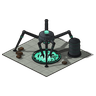
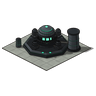
Fusion Core: its own art, and the Fusion Reactor lights it up
The Core wore the Assimilator's art as a placeholder. render_xeno_base.py now
builds it: a shut ribbed lid on a caged plasma well, four short coil pylons,
and an east roof tower. The Fusion Reactor level (fusioncore-reactor, picked
by LEVEL_SHEETS) opens the lid on a caged star in a lit torus, with tall
glowing coil spires and more seams, vents and capacitors. The roof Ion
Turret's seat moves to the tower roof, which stands as tall on both sheets.

Changed region(s): [[0.0, 0.1875, 1.0, 0.8125]]

diff --git a/gridlock/packages/client/src/render/sprites.ts b/gridlock/packages/client/src/render/sprites.ts
@@ -48,6 +48,7 @@ import researchUrl from "../assets/buildings/research.png";
 import cyborgCentralUrl from "../assets/buildings/cyborgcentral.png";
 import hiveCoreUrl from "../assets/buildings/hivecore.png";
 import fusionNodeUrl from "../assets/buildings/fusionnode.png";
+import fusionCoreUrl from "../assets/buildings/fusioncore.png";
 import forgeUrl from "../assets/buildings/forge.png";
 import nexusUrl from "../assets/buildings/nexus.png";
 import conversionUrl from "../assets/buildings/conversion.png";
@@ -1765,10 +1766,11 @@ bindMothershipSheets({ hull: MOTHERSHIP_SPRITE.image });
 /**
  * Where a researched Flak Maw (sim/roof-flak.ts) sits on its structure: its pivot in the building
  * sheet's pixels, and the mount cell's width as a share of the pad's (ROOF_FLAK_SHEET).
- * The Fusion Core still wears the Assimilator's art: the maw rides on the silo's cap.
+ * The Fusion Core's turret sits on the flat roof of its east tower (the "roof" spot in fusioncore.json). The
+ * tower stands as tall on the Fusion Reactor's sheet, so the seat holds against the pad on both.
  */
 export const ROOF_FLAK_SEAT: Partial<Record<EntityType, { x: number; y: number; cellPerPad: number }>> = {
-  fusioncore: { x: 323.6, y: 95, cellPerPad: 0.95 },
+  fusioncore: { x: 320, y: 34, cellPerPad: 0.95 },
 };
 /** The Flak Maw on its 16 bearings (tools/sprites/render_flak_maw.py), on the Hive Ark's camera and cell. */
 export const ROOF_FLAK_SHEET: TurretSpriteDef = { image: new Image(), dirs: TANK_FACE_DIRS, frames: 1, frameSize: MOTHERSHIP_MODEL.cell };
@@ -2312,8 +2314,8 @@ const BUILDING_SPRITES: Partial<Record<EntityType, BuildingSpriteDef>> = {
   forge: building(forgeUrl, 384, 204, 232.2, 188, 22.2),
   // Neural core in a rib cage under a sensor crown: Xenite tech and radar, t(2).
   nexus: building(nexusUrl, 384, 210, 322.9, 210, 19.9),
-  // Fusion reactor on a caged plasma well: the Xenite power core, t(3). PLACEHOLDER: the Assimilator's art until its own sheet is rendered.
-  fusioncore: building(assimilatorUrl, 384, 204, 256.2, 204, 54.2),
+  // A shut reactor lid on a caged plasma well, coil pylons, a roof tower: the Xenite power core, t(3). Lit by the Fusion Reactor (LEVEL_SHEETS).
+  fusioncore: building(fusionCoreUrl, 384, 204, 204, 204, 4),
   // Chitin dome, a ring of conversion pods, synapse spire: the Xenite barracks, t(2) like the Barracks.
   conversion: building(conversionUrl, 384, 210, 299.2, 216, 8.2),
   // Ops hut, lattice mast, dish. Metrics from tools/sprites/render_radar.py (radar.json); the stack hangs over the dish.
@@ -2371,7 +2373,7 @@ for (const type of FORT_TYPES) {
  * Structures that look different once researched (sim/research.ts): each level past the base is its
  * own sheet, <type>-<name>.png with its pad metrics in <type>-<name>.json (tools/sprites/render_xeno_base.py).
  */
-export const LEVEL_SHEETS: Partial<Record<EntityType, readonly string[]>> = { fusionnode: ["advanced", "ultra"] };
+export const LEVEL_SHEETS: Partial<Record<EntityType, readonly string[]>> = { fusionnode: ["advanced", "ultra"], fusioncore: ["reactor"] };
 const LEVEL_SPRITES: Partial<Record<EntityType, BuildingSpriteDef[]>> = {};
 for (const [type, names] of Object.entries(LEVEL_SHEETS) as [EntityType, readonly string[]][]) {
   const defs: BuildingSpriteDef[] = [];

diff --git a/tools/sprites/render_xeno_base.py b/tools/sprites/render_xeno_base.py
@@ -39,6 +39,14 @@ pad, like core.png, smelter.png, and dynamo.png.
   fusionnode-advanced / fusionnode-ultra: the Fusion Node after Advanced and Ultra Fusion research
   (sim/research.ts). Same plinth and pad; taller, denser coils, a bigger core in gyro hoops, more
   capacitors and vents, and for Ultra a crown of four spires under a glowing ring.
+
+  fusioncore   t(3) x t(3)  the Xenite power core: a shut, ribbed reactor lid on a
+                            caged plasma well, four short coil pylons, a roof
+                            tower on the east corner (the roof Ion Turret's seat)
+  fusioncore-reactor: after Fusion Reactor research. Same plinth, pad and tower; the lid opens on
+  a caged star in a lit torus fed by a plasma stream, the pylons grow into glowing coil spires.
+
+  python tools/sprites/render_xeno_base.py --out ... --only fusioncore fusioncore-reactor
 """
 
 from __future__ import annotations
@@ -678,6 +686,154 @@ def assimilator_spots() -> dict:
         "silo": [(78.0 + 8.6 * math.cos(0.8), 18.0 + 8.6 * math.sin(0.8), z) for z in (11.3, 19.3, 27.3)],
         "smoke": (px, py, 4.0),
         "stack": (bx, by, AS_BODY_Z[1] + 9.0),
+    }
+
+
+# ---------------------------------------------------------------- Fusion Core, t(3) x t(3)
+
+FC = 96.0
+FC_C = (44.0, 44.0)
+# The tower on the east corner: its flat roof seats the roof Ion Turret (sim/roof-flak.ts), at the
+# same height on every level so the turret never moves when the reactor lights.
+FC_TOWER = (78.0, 20.0)
+FC_TOWER_TOP = 38.0
+# Research levels (sim/research.ts): plain, and Fusion Reactor. Same plinth, pad and tower, so the
+# core reads as the same building lit: the shut lid opens on a caged star in a lit torus.
+FC_LEVELS = {
+    0: dict(pylon_top=24.0, orb_z=0.0, orb_r=0.0),
+    1: dict(pylon_top=60.0, orb_z=50.0, orb_r=12.0),
+}
+
+
+def flat_ring(m: ra.Mesh, c, r: float, tube: float, mat: str, segs: int = 32) -> None:
+    """A level torus around `c`: short fat rods round a circle."""
+    cx, cy, cz = c
+    pts = [(cx + r * math.cos(2 * math.pi * i / segs), cy + r * math.sin(2 * math.pi * i / segs), cz) for i in range(segs)]
+    for i in range(segs):
+        m.cyl(pts[i], pts[(i + 1) % segs], tube, tube, mat, n=8)
+
+
+def fc_pylons() -> list[tuple[float, float]]:
+    cx, cy = FC_C
+    o = 25.0
+    # On the plinth's side midpoints, two either side of the well, so none stands in front of it.
+    return [(cx + o, cy), (cx, cy + o), (cx - o, cy), (cx, cy - o)]
+
+
+def build_fusioncore(with_pad: bool) -> ra.Mesh:
+    return build_fusioncore_level(with_pad, 0)
+
+
+def build_fusioncore_level(with_pad: bool, level: int) -> ra.Mesh:
+    global RIB_C
+    RIB_C = FC_C
+    L = FC_LEVELS[level]
+    m = ra.Mesh()
+    if with_pad:
+        pad(m, FC, FC)
+    cx, cy = FC_C
+    # Heavy octagonal plinth, a glowing seam, a deck. The Reactor lights a second seam.
+    m.cyl((cx, cy, 1.0), (cx, cy, 5.0), 36.0, 35.0, "steel_dark", n=8)
+    m.cyl((cx, cy, 5.0), (cx, cy, 5.6), 34.6, 34.6, "glow", n=8, caps=False)
+    m.cyl((cx, cy, 5.6), (cx, cy, 9.0), 34.0, 31.0, "steel", n=8)
+    if level >= 1:
+        m.cyl((cx, cy, 8.0), (cx, cy, 8.5), 31.6, 31.6, "glow", n=8, caps=False)
+    # The caged plasma well: a glowing column in a ring of bars.
+    m.cyl((cx, cy, 9.0), (cx, cy, 12.0), 17.0, 16.0, "steel_dark", n=20)
+    well_top = 28.0
+    m.cyl((cx, cy, 12.0), (cx, cy, well_top), 8.0, 7.0, "core", n=20)
+    bars = 10 if level == 0 else 14
+    for k in range(bars):
+        a = 2 * math.pi * k / bars + math.pi / 10
+        b = (cx + 11.0 * math.cos(a), cy + 11.0 * math.sin(a), 12.0)
+        t = (cx + 9.6 * math.cos(a), cy + 9.6 * math.sin(a), well_top)
+        m.cyl(b, t, 1.0, 0.8, "spine", n=6)
+    m.cyl((cx, cy, well_top), (cx, cy, well_top + 3.0), 14.0, 13.0, "steel_dark", n=20)
+    if level == 0:
+        # Shut: a ribbed reactor lid over the well, a cold containment torus round its waist.
+        dome(m, cx, cy, well_top + 3.0, 12.5, 11.0, 3, "ribbed", "glow", n=24)
+        flat_ring(m, (cx, cy, 20.0), 14.5, 2.4, "steel_dark")
+        ball(m, (cx, cy, well_top + 14.5), 2.2, "core", rings=5, n=10)
+    else:
+        orb_z, orb_r = L["orb_z"], L["orb_r"]
+        # Open: the lid gone to a ring, a plasma stream climbing into a caged star.
+        m.cyl((cx, cy, well_top + 3.0), (cx, cy, well_top + 5.0), 12.5, 11.0, "ribbed", n=24, caps=False)
+        m.cyl((cx, cy, well_top + 5.0), (cx, cy, orb_z - orb_r + 1.0), 2.0, 2.8, "hot", n=12)
+        flat_ring(m, (cx, cy, 20.0), 14.5, 2.4, "glow")
+        ball(m, (cx, cy, orb_z), orb_r, "core", rings=12, n=24)
+        hr = orb_r + 1.2
+        # The tokamak: a lit torus under the star's waist on a dark yoke, so the star bulges out of
+        # it, gyro hoops across it.
+        ring_z = orb_z - orb_r * 0.55
+        ring_r = orb_r * 0.84 + 3.0
+        flat_ring(m, (cx, cy, ring_z), ring_r, 1.6, "glow", segs=36)
+        flat_ring(m, (cx, cy, ring_z - 1.4), ring_r + 0.4, 1.1, "steel_dark", segs=36)
+        hoop(m, (cx, cy, orb_z), hr + 0.8, (1.0, -1.0, 0.0), "glow")
+        hoop(m, (cx, cy, orb_z), hr + 1.4, (1.0, 1.0, 0.0), "spine")
+        m.cyl((cx, cy, orb_z + orb_r + 0.5), (cx, cy, orb_z + orb_r + 4.0), 1.6, 0.4, "spine", n=10)
+    # Coil pylons round the well: short and dark while shut, tall glowing spires once lit.
+    top = L["pylon_top"]
+    for sx, sy in fc_pylons():
+        m.box((sx - 4.5, sy - 4.5, 9.0), (sx + 4.5, sy + 4.5, 12.0), "steel_dark", top="roof")
+        m.cyl((sx, sy, 12.0), (sx, sy, top), 3.4, 1.6 if level else 2.6, "ribbed", n=10)
+        step = 4.6 if level == 0 else 3.2
+        for z in np.arange(14.0, top - 4.0, step):
+            r = 3.4 + ((1.6 if level else 2.6) - 3.4) * (z - 12.0) / (top - 12.0)
+            m.cyl((sx, sy, z), (sx, sy, z + step * 0.62), r + 1.3, r + 1.1, "coil", n=12)
+            if level >= 1:
+                m.cyl((sx, sy, z + step * 0.62), (sx, sy, z + step * 0.74), r + 0.8, r + 0.8, "glow", n=12, caps=False)
+        if level == 0:
+            m.cyl((sx, sy, top), (sx, sy, top + 1.5), 2.6, 1.0, "steel_dark", n=10)
+        else:
+            ball(m, (sx, sy, top + 1.4), 2.2, "core", rings=5, n=10)
+            # Prongs into the star from two heights.
+            orb_z = L["orb_z"]
+            m.cyl((sx, sy, orb_z + 3.0), (cx + (sx - cx) * 0.55, cy + (sy - cy) * 0.55, orb_z + 0.6), 1.0, 0.4, "spine", n=6)
+            m.cyl((sx, sy, orb_z - 9.0), (cx + (sx - cx) * 0.6, cy + (sy - cy) * 0.6, orb_z - 6.0), 0.9, 0.35, "spine", n=6)
+        # Conduit from the well's foot to the pylon.
+        m.cyl((cx, cy, 10.0), (sx, sy, 10.6), 1.3, 1.3, "pipe", n=8)
+    # The east tower: ribbed shaft, glowing bands, a flat roof (the Ion Turret's seat).
+    tx, ty = FC_TOWER
+    m.cyl((tx, ty, 1.0), (tx, ty, 4.0), 11.0, 10.5, "steel_dark", n=16)
+    m.cyl((tx, ty, 4.0), (tx, ty, FC_TOWER_TOP - 3.0), 8.6, 7.6, "ribbed", n=16)
+    bands = (12.0, 22.0) if level == 0 else (9.0, 15.0, 21.0, 27.0, 33.0)
+    for z in bands:
+        m.cyl((tx, ty, z), (tx, ty, z + 0.7), 8.5, 8.5, "glow", n=16, caps=False)
+    m.cyl((tx, ty, FC_TOWER_TOP - 3.0), (tx, ty, FC_TOWER_TOP), 9.2, 9.2, "steel_dark", n=16)
+    m.cyl((tx, ty, FC_TOWER_TOP - 0.3), (tx, ty, FC_TOWER_TOP), 9.4, 9.4, "glow" if level else "steel", n=16, caps=False)
+    m.cyl((tx - 5.0, ty + 6.0, 14.0), (cx + 10.0, cy - 12.0, 10.0), 2.0, 2.0, "pipe", n=8)
+    # Capacitor banks on the west: one while shut, three with core caps once lit.
+    caps_at = [(14.0, 74.0)] if level == 0 else [(12.0, 66.0), (18.0, 78.0), (28.0, 84.0)]
+    for px_, py_ in caps_at:
+        h = 16.0 if level == 0 else 20.0
+        m.cyl((px_, py_, 1.0), (px_, py_, h), 4.4, 3.8, "steel", n=12)
+        for z in np.arange(6.0, h - 1.0, 4.0 if level == 0 else 3.0):
+            m.cyl((px_, py_, z), (px_, py_, z + 0.7), 4.2, 4.2, "glow", n=12, caps=False)
+        m.cyl((px_, py_, h), (px_, py_, h + 1.5), 3.8, 1.8, "steel_dark", n=12)
+        if level >= 1:
+            ball(m, (px_, py_, h + 2.3), 1.5, "core", rings=4, n=8)
+    # Glowing vents in the deck toward the camera.
+    vents = (-1, 1) if level == 0 else (-2, -1, 0, 1, 2)
+    for k in vents:
+        vx, vy = cx + 22.0 + k * 4.0, cy + 22.0 - k * 4.0
+        m.box((vx - 1.8, vy - 1.8, 9.0), (vx + 1.8, vy + 1.8, 9.4), "glow")
+    return m
+
+
+def fusioncore_spots() -> dict:
+    return fusioncore_level_spots(0)
+
+
+def fusioncore_level_spots(level: int) -> dict:
+    cx, cy = FC_C
+    L = FC_LEVELS[level]
+    tx, ty = FC_TOWER
+    core_z = L["orb_z"] if level else 20.0
+    return {
+        "core": (cx, cy, core_z),
+        "well": (cx + 6.0, cy + 6.0, 18.0),
+        "roof": (tx, ty, FC_TOWER_TOP),
+        "stack": (cx, cy, (L["orb_z"] + L["orb_r"] + 6.0) if level else 48.0),
     }
 
 
@@ -1326,6 +1482,8 @@ BUILDINGS = {
     "fusionnode-advanced": (FN, FN, 3.0, lambda pad_: build_fusionnode_level(pad_, 1), lambda: fusionnode_level_spots(1)),
     "fusionnode-ultra": (FN, FN, 3.0, lambda pad_: build_fusionnode_level(pad_, 2), lambda: fusionnode_level_spots(2)),
     "assimilator": (AS, AS, 2.0, build_assimilator, assimilator_spots),
+    "fusioncore": (FC, FC, 2.0, build_fusioncore, fusioncore_spots),
+    "fusioncore-reactor": (FC, FC, 2.0, lambda pad_: build_fusioncore_level(pad_, 1), lambda: fusioncore_level_spots(1)),
     "forge": (NF, NF, 2.0, build_forge, forge_spots),
     "nexus": (NX, NX, 3.0, build_nexus, nexus_spots),
     "aerie": (AE, AE, 2.0, build_aerie, aerie_spots),
